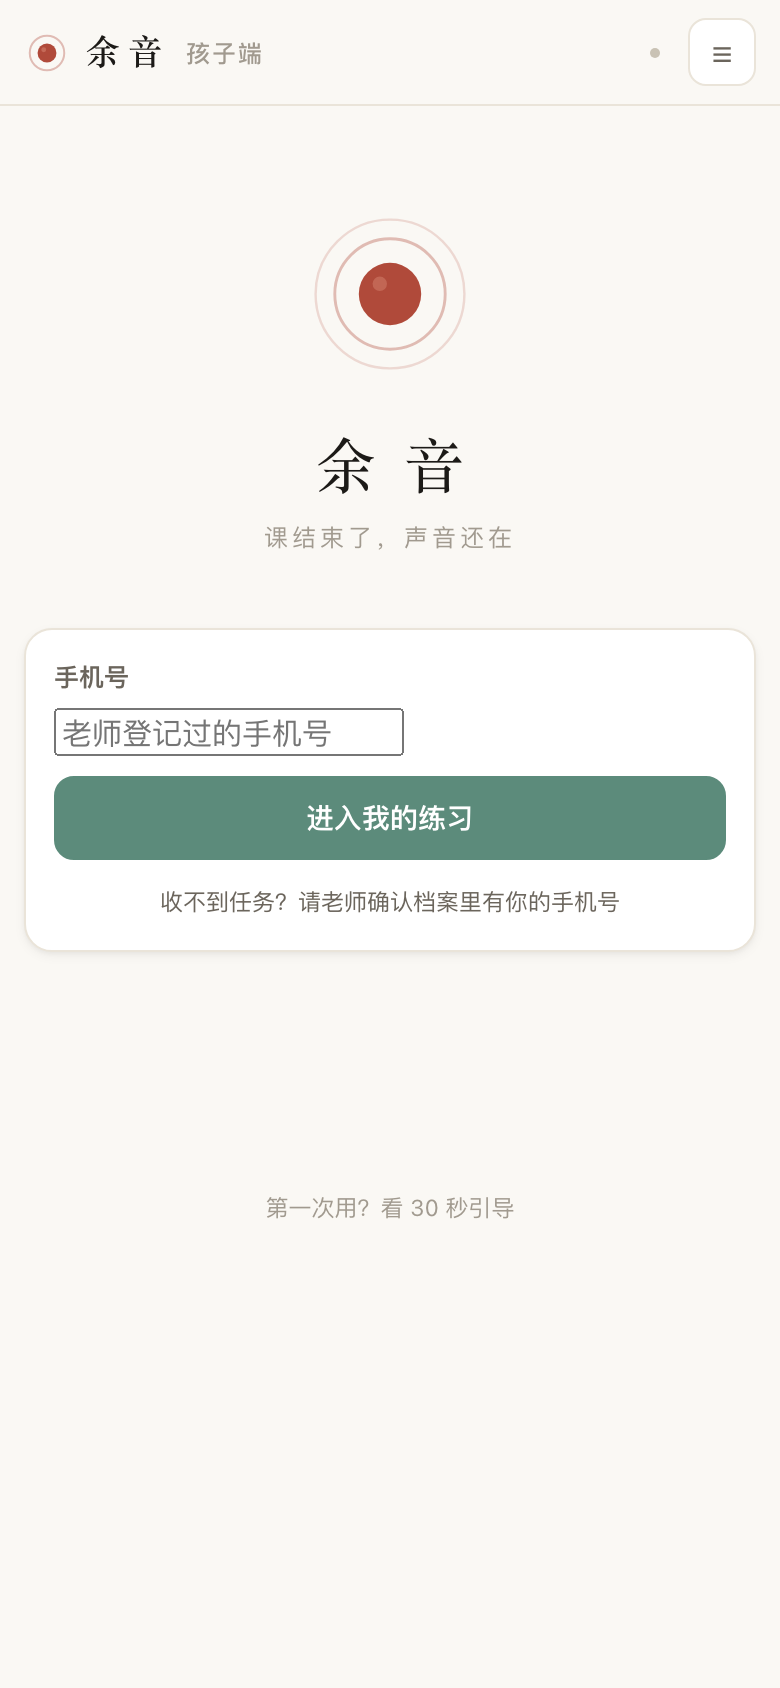
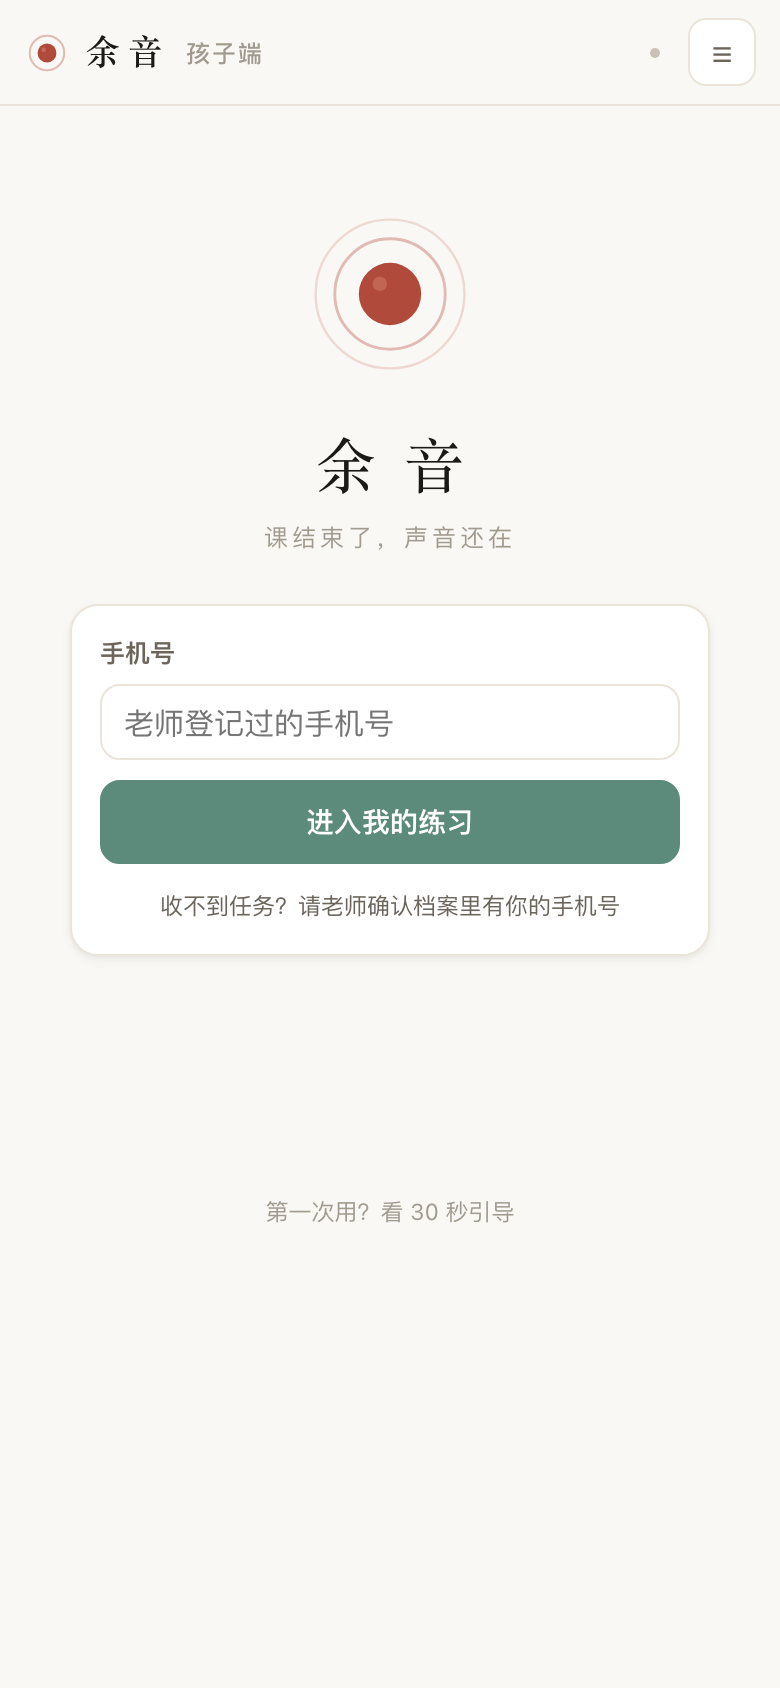
fix(登录页): 手机号输入框与按钮同宽、卡片 320px 居中
- 根因：全局 input 样式选择器缺 input[type=tel]，登录框用浏览器默认窄宽，
  与 100% 宽按钮不协调 —— 选择器补 tel（全端受益）
- 学生端登录卡限宽 320px 水平居中（split2.py GATE 模板）
- 重截 README 07-登录页截图

diff --git a/prototype/server/public/student.html b/prototype/server/public/student.html
@@ -86,7 +86,7 @@ h3{font-size:14.5px;margin:0 0 8px}
 .tag.bad{background:var(--bad-soft);color:var(--bad)}
 .tag.info{background:var(--info-soft);color:var(--info)}
 .tag.pur{background:var(--pur-soft);color:var(--pur)}
-input[type=text],input[type=number],input[type=date],textarea,select{width:100%;padding:9px 11px;border:1px solid var(--line);border-radius:10px;background:#fff;outline:none}
+input[type=text],input[type=number],input[type=date],input[type=tel],textarea,select{width:100%;padding:9px 11px;border:1px solid var(--line);border-radius:10px;background:#fff;outline:none}
 textarea{resize:vertical;min-height:62px;line-height:1.55}
 input:focus,textarea:focus,select:focus{border-color:var(--brand-line)}
 label.fld{display:block;margin-bottom:10px}
@@ -209,7 +209,7 @@ kbd{background:#f3f4f6;border:1px solid var(--line);border-bottom-width:2px;bord
     <div style="font-family:'Songti SC','STSong',SimSun,serif;font-size:30px;letter-spacing:14px;text-indent:14px;margin-top:6px">余音</div>
     <div style="font-size:12px;color:#A19A8F;letter-spacing:2px;margin:4px 0 16px">课结束了，声音还在</div>
   </div>
-  <div class="card">
+  <div class="card" style="max-width:320px;margin:0 auto">
     <label class="fld"><span>手机号</span>
       <input type="tel" id="lgPhone" inputmode="numeric" placeholder="老师登记过的手机号" onkeydown="if(event.key==='Enter')doLogin()"></label>
     <button class="btn pri block stu" onclick="doLogin()">进入我的练习</button>

diff --git a/prototype/server/public/index.html b/prototype/server/public/index.html
@@ -86,7 +86,7 @@ h3{font-size:14.5px;margin:0 0 8px}
 .tag.bad{background:var(--bad-soft);color:var(--bad)}
 .tag.info{background:var(--info-soft);color:var(--info)}
 .tag.pur{background:var(--pur-soft);color:var(--pur)}
-input[type=text],input[type=number],input[type=date],textarea,select{width:100%;padding:9px 11px;border:1px solid var(--line);border-radius:10px;background:#fff;outline:none}
+input[type=text],input[type=number],input[type=date],input[type=tel],textarea,select{width:100%;padding:9px 11px;border:1px solid var(--line);border-radius:10px;background:#fff;outline:none}
 textarea{resize:vertical;min-height:62px;line-height:1.55}
 input:focus,textarea:focus,select:focus{border-color:var(--brand-line)}
 label.fld{display:block;margin-bottom:10px}

diff --git a/prototype/server/public/teacher.html b/prototype/server/public/teacher.html
@@ -86,7 +86,7 @@ h3{font-size:14.5px;margin:0 0 8px}
 .tag.bad{background:var(--bad-soft);color:var(--bad)}
 .tag.info{background:var(--info-soft);color:var(--info)}
 .tag.pur{background:var(--pur-soft);color:var(--pur)}
-input[type=text],input[type=number],input[type=date],textarea,select{width:100%;padding:9px 11px;border:1px solid var(--line);border-radius:10px;background:#fff;outline:none}
+input[type=text],input[type=number],input[type=date],input[type=tel],textarea,select{width:100%;padding:9px 11px;border:1px solid var(--line);border-radius:10px;background:#fff;outline:none}
 textarea{resize:vertical;min-height:62px;line-height:1.55}
 input:focus,textarea:focus,select:focus{border-color:var(--brand-line)}
 label.fld{display:block;margin-bottom:10px}
